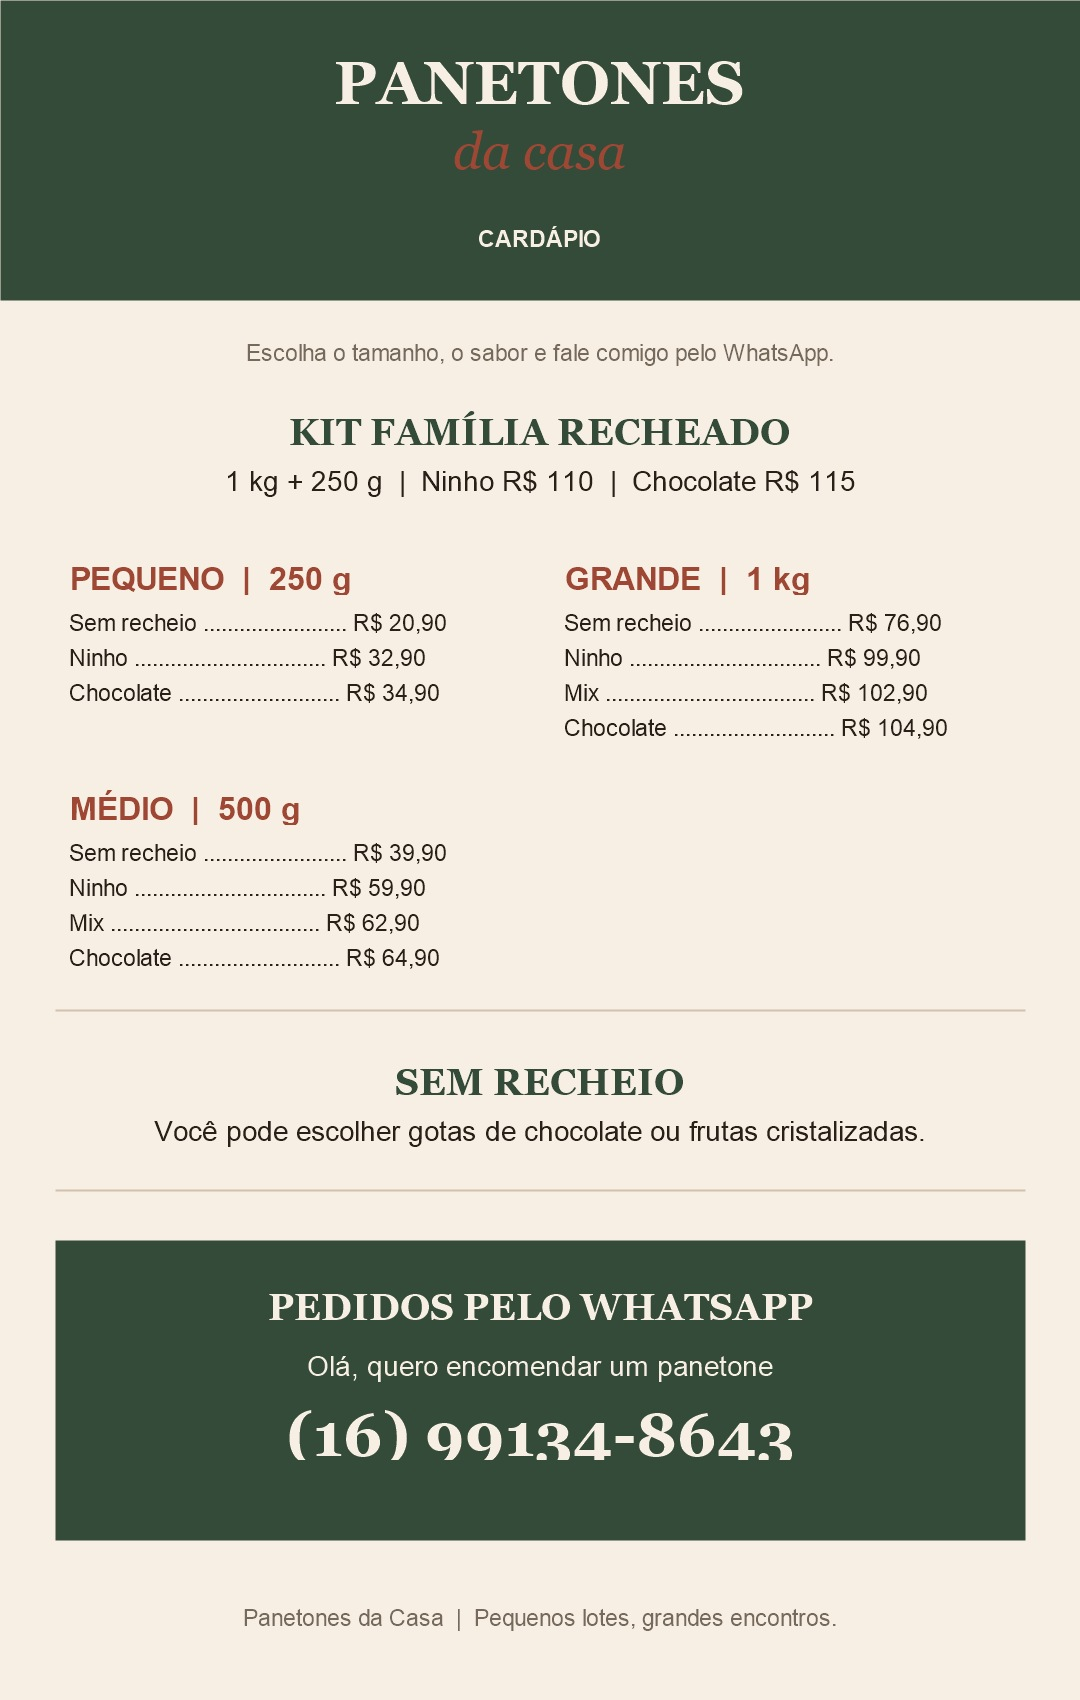
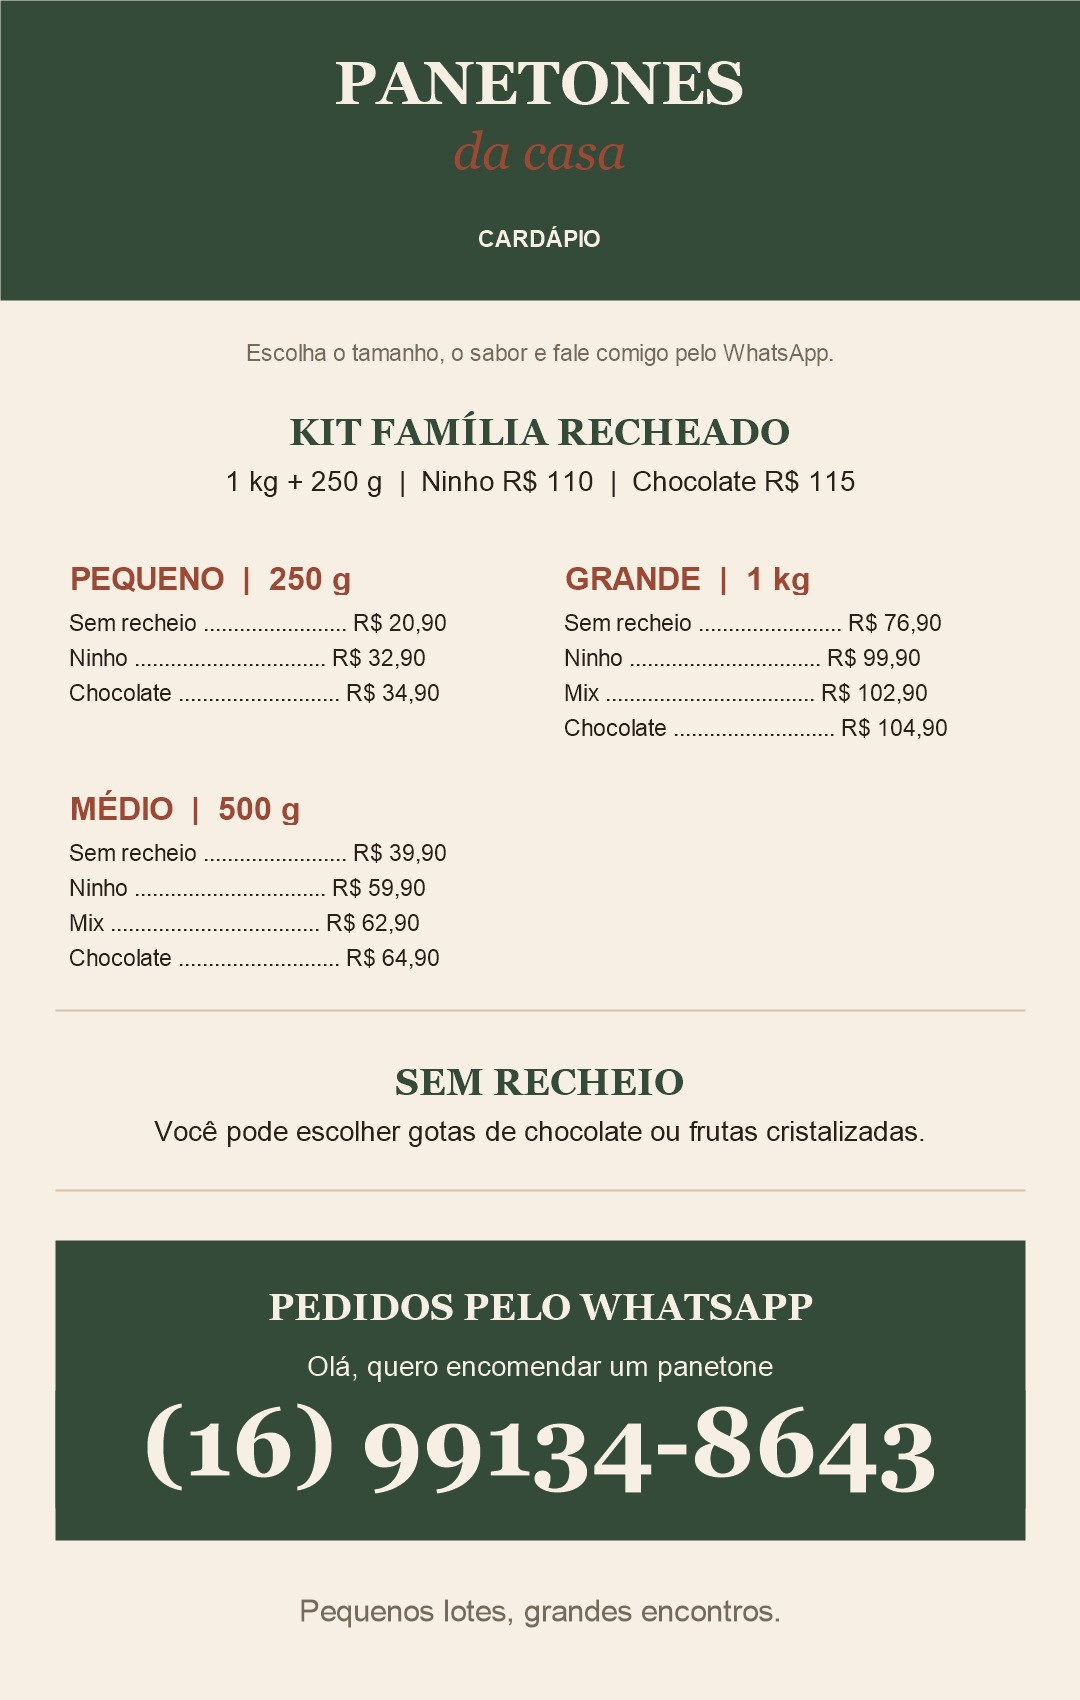
fix: corrige zoom e ajustes do cardapio

Changed region(s): [[0.1833, 0.8106, 0.8861, 0.9041], [0.2444, 0.9353, 0.7639, 0.9665], [0.1222, 0.8106, 0.1528, 0.8729]]

diff --git a/index.html b/index.html
@@ -78,17 +78,22 @@
         <div class="lightbox" id="lightbox" role="dialog" aria-modal="true" aria-label="Foto ampliada" hidden onclick="closePhoto()">
           <div class="lightbox-content" onclick="event.stopPropagation()">
             <button class="lightbox-close" type="button" onclick="closePhoto()" aria-label="Fechar foto ampliada">×</button>
-            <button class="lightbox-image-button" id="lightbox-image-button" type="button" onclick="toggleZoom()" aria-label="Aumentar foto"><img class="lightbox-image" id="lightbox-image" src="./public/images/panetone-cortado.png" alt="" /></button>
+            <button class="lightbox-image-button" id="lightbox-image-button" type="button" onclick="handleLightboxClick()" onpointerdown="startPhotoDrag(event)" onpointermove="movePhotoDrag(event)" onpointerup="endPhotoDrag(event)" onpointercancel="endPhotoDrag(event)" aria-label="Aumentar foto"><img class="lightbox-image" id="lightbox-image" src="./public/images/panetone-cortado.png" alt="" draggable="false" /></button>
             <p class="lightbox-caption" id="lightbox-caption">Macio por dentro · clique na foto para dar zoom</p>
           </div>
         </div>
 
         <section class="order-section section-shell"><div class="order-card"><div><p class="eyebrow">A próxima fatia pode ser sua</p><h2>Reserve seu pedido.</h2><p>Chame no WhatsApp para escolher o tamanho, o recheio e combinar a entrega.</p></div><a class="button button-light" data-whatsapp href="https://wa.me/5516991348643" target="_blank" rel="noreferrer">Quero pedir</a></div></section>
-        <footer class="site-footer section-shell"><span>Panetones da casa</span><span>Pequenos lotes, grandes encontros.</span><a href="#top">Voltar ao topo ↑</a></footer>
+        <footer class="site-footer section-shell"><span>Pequenos lotes, grandes encontros.</span><a href="#top">Voltar ao topo ↑</a></footer>
       </main>
     </div>
     <script>
       let activePhotoIndex = 0
+      let staticZoomed = false
+      let staticPanX = 0
+      let staticPanY = 0
+      let staticDrag = null
+      let staticSuppressClick = false
       const staticAssetRoot = window.location.protocol === 'file:' ? './public/' : './'
       const staticAssetPath = (path) => `${staticAssetRoot}${path}`
       document.querySelectorAll('img[src^="./public/"]').forEach((image) => {
@@ -130,8 +135,12 @@
         const imageButton = document.getElementById('lightbox-image-button')
         image.src = photo[0]
         image.alt = photo[1]
-        image.classList.remove('is-zoomed')
+        staticZoomed = false
+        staticPanX = 0
+        staticPanY = 0
+        image.style.transform = 'translate(0px, 0px) scale(1)'
         imageButton.classList.remove('is-zoomed')
+        imageButton.classList.remove('is-dragging')
         imageButton.setAttribute('aria-label', 'Aumentar foto')
         document.getElementById('lightbox-caption').textContent = `${photo[2]} · clique na foto para dar zoom`
         lightbox.hidden = false
@@ -141,14 +150,52 @@
         document.getElementById('lightbox').hidden = true
         document.body.style.overflow = ''
       }
-      function toggleZoom() {
+      function updateStaticLightbox() {
         const image = document.getElementById('lightbox-image')
         const imageButton = document.getElementById('lightbox-image-button')
-        const zoomed = image.classList.toggle('is-zoomed')
-        imageButton.classList.toggle('is-zoomed', zoomed)
-        imageButton.setAttribute('aria-label', zoomed ? 'Reduzir foto' : 'Aumentar foto')
+        image.style.transform = `translate(${staticPanX}px, ${staticPanY}px) scale(${staticZoomed ? 1.55 : 1})`
+        imageButton.classList.toggle('is-zoomed', staticZoomed)
+        imageButton.setAttribute('aria-label', staticZoomed ? 'Arrastar ou reduzir foto' : 'Aumentar foto')
         const photo = photos[activePhotoIndex]
-        document.getElementById('lightbox-caption').textContent = `${photo[2]} · clique na foto para ${zoomed ? 'reduzir' : 'dar zoom'}`
+        document.getElementById('lightbox-caption').textContent = `${photo[2]} · ${staticZoomed ? 'arraste para explorar ou clique para reduzir' : 'clique na foto para dar zoom'}`
+      }
+      function toggleZoom() {
+        staticZoomed = !staticZoomed
+        if (!staticZoomed) {
+          staticPanX = 0
+          staticPanY = 0
+        }
+        updateStaticLightbox()
+      }
+      function handleLightboxClick() {
+        if (staticSuppressClick) {
+          staticSuppressClick = false
+          return
+        }
+        toggleZoom()
+      }
+      function startPhotoDrag(event) {
+        if (!staticZoomed) return
+        event.preventDefault()
+        event.currentTarget.setPointerCapture(event.pointerId)
+        staticDrag = { pointerId: event.pointerId, startX: event.clientX, startY: event.clientY, panX: staticPanX, panY: staticPanY, moved: false }
+        event.currentTarget.classList.add('is-dragging')
+      }
+      function movePhotoDrag(event) {
+        if (!staticDrag || staticDrag.pointerId !== event.pointerId) return
+        const deltaX = event.clientX - staticDrag.startX
+        const deltaY = event.clientY - staticDrag.startY
+        if (Math.abs(deltaX) > 3 || Math.abs(deltaY) > 3) staticDrag.moved = true
+        staticPanX = staticDrag.panX + deltaX
+        staticPanY = staticDrag.panY + deltaY
+        updateStaticLightbox()
+      }
+      function endPhotoDrag(event) {
+        if (!staticDrag || staticDrag.pointerId !== event.pointerId) return
+        if (staticDrag.moved) staticSuppressClick = true
+        if (event.currentTarget.hasPointerCapture(event.pointerId)) event.currentTarget.releasePointerCapture(event.pointerId)
+        staticDrag = null
+        event.currentTarget.classList.remove('is-dragging')
       }
       document.addEventListener('keydown', (event) => {
         if (event.key === 'Escape' && document.getElementById('lightbox')) closePhoto()

diff --git a/src/main.jsx b/src/main.jsx
@@ -1,4 +1,4 @@
-import { StrictMode, useEffect, useState } from 'react'
+import { StrictMode, useEffect, useRef, useState } from 'react'
 import { createRoot } from 'react-dom/client'
 import './styles.css'
 
@@ -125,16 +125,69 @@ function App() {
   const [selectedPhoto, setSelectedPhoto] = useState(0)
   const [lightboxPhoto, setLightboxPhoto] = useState(null)
   const [zoomed, setZoomed] = useState(false)
+  const [pan, setPan] = useState({ x: 0, y: 0 })
+  const [dragging, setDragging] = useState(false)
+  const dragRef = useRef(null)
+  const suppressClickRef = useRef(false)
 
   function openPhoto(index) {
     setSelectedPhoto(index)
     setLightboxPhoto(photos[index])
     setZoomed(false)
+    setPan({ x: 0, y: 0 })
   }
 
   function closePhoto() {
     setLightboxPhoto(null)
     setZoomed(false)
+    setPan({ x: 0, y: 0 })
+  }
+
+  function toggleZoom() {
+    setZoomed((current) => {
+      if (current) setPan({ x: 0, y: 0 })
+      return !current
+    })
+  }
+
+  function handleImagePointerDown(event) {
+    if (!zoomed) return
+    event.preventDefault()
+    event.currentTarget.setPointerCapture(event.pointerId)
+    dragRef.current = {
+      pointerId: event.pointerId,
+      startX: event.clientX,
+      startY: event.clientY,
+      startPan: pan,
+      moved: false,
+    }
+    setDragging(true)
+  }
+
+  function handleImagePointerMove(event) {
+    const drag = dragRef.current
+    if (!drag || drag.pointerId !== event.pointerId) return
+    const deltaX = event.clientX - drag.startX
+    const deltaY = event.clientY - drag.startY
+    if (Math.abs(deltaX) > 3 || Math.abs(deltaY) > 3) drag.moved = true
+    setPan({ x: drag.startPan.x + deltaX, y: drag.startPan.y + deltaY })
+  }
+
+  function handleImagePointerUp(event) {
+    const drag = dragRef.current
+    if (!drag || drag.pointerId !== event.pointerId) return
+    if (drag.moved) suppressClickRef.current = true
+    if (event.currentTarget.hasPointerCapture(event.pointerId)) event.currentTarget.releasePointerCapture(event.pointerId)
+    dragRef.current = null
+    setDragging(false)
+  }
+
+  function handleImageClick() {
+    if (suppressClickRef.current) {
+      suppressClickRef.current = false
+      return
+    }
+    toggleZoom()
   }
 
   useEffect(() => {
@@ -300,10 +353,10 @@ function App() {
         <div className="lightbox" role="dialog" aria-modal="true" aria-label={`Foto ampliada: ${lightboxPhoto.label}`} onClick={closePhoto}>
           <div className="lightbox-content" onClick={(event) => event.stopPropagation()}>
             <button className="lightbox-close" type="button" onClick={closePhoto} aria-label="Fechar foto ampliada">×</button>
-            <button className={`lightbox-image-button ${zoomed ? 'is-zoomed' : ''}`} type="button" onClick={() => setZoomed((current) => !current)} aria-label={zoomed ? 'Reduzir foto' : 'Aumentar foto'}>
-              <img className={`lightbox-image ${zoomed ? 'is-zoomed' : ''}`} src={lightboxPhoto.src} alt={lightboxPhoto.alt} />
+            <button className={`lightbox-image-button ${zoomed ? 'is-zoomed' : ''} ${dragging ? 'is-dragging' : ''}`} type="button" onClick={handleImageClick} onPointerDown={handleImagePointerDown} onPointerMove={handleImagePointerMove} onPointerUp={handleImagePointerUp} onPointerCancel={handleImagePointerUp} aria-label={zoomed ? 'Arrastar ou reduzir foto' : 'Aumentar foto'}>
+              <img className="lightbox-image" src={lightboxPhoto.src} alt={lightboxPhoto.alt} draggable="false" style={{ transform: `translate(${pan.x}px, ${pan.y}px) scale(${zoomed ? 1.55 : 1})` }} />
             </button>
-            <p className="lightbox-caption">{lightboxPhoto.label} · clique na foto para {zoomed ? 'reduzir' : 'dar zoom'}</p>
+            <p className="lightbox-caption">{lightboxPhoto.label} · {zoomed ? 'arraste para explorar ou clique para reduzir' : 'clique na foto para dar zoom'}</p>
           </div>
         </div>
       )}
@@ -322,7 +375,6 @@ function App() {
       </section>
 
       <footer className="site-footer section-shell">
-        <span>Panetones da casa</span>
         <span>Pequenos lotes, grandes encontros.</span>
         <a href="#top">Voltar ao topo ↑</a>
       </footer>

diff --git a/src/styles.css b/src/styles.css
@@ -159,10 +159,10 @@ img { display: block; max-width: 100%; }
 .lightbox { align-items: center; background: rgba(25, 19, 14, .84); display: flex; inset: 0; justify-content: center; padding: 28px; position: fixed; z-index: 20; }
 .lightbox[hidden] { display: none; }
 .lightbox-content { max-height: 100%; max-width: min(92vw, 1000px); position: relative; }
-.lightbox-image-button { background: transparent; border: 0; cursor: zoom-in; display: block; max-height: calc(100vh - 100px); max-width: 100%; overflow: auto; padding: 0; }
-.lightbox-image { display: block; max-height: calc(100vh - 100px); max-width: 100%; object-fit: contain; transition: transform .25s ease; }
-.lightbox-image.is-zoomed { cursor: zoom-out; max-height: none; max-width: none; transform: scale(1.55); transform-origin: center center; }
-.lightbox-image-button.is-zoomed { max-height: calc(100vh - 100px); max-width: min(92vw, 1000px); }
+.lightbox-image-button { align-items: center; background: transparent; border: 0; cursor: zoom-in; display: flex; height: min(calc(100vh - 100px), 760px); justify-content: center; max-width: min(92vw, 1000px); overflow: hidden; padding: 0; touch-action: none; width: min(92vw, 1000px); }
+.lightbox-image { display: block; max-height: 100%; max-width: 100%; object-fit: contain; pointer-events: none; user-select: none; }
+.lightbox-image-button.is-zoomed { cursor: grab; }
+.lightbox-image-button.is-dragging { cursor: grabbing; }
 .lightbox-close { align-items: center; background: var(--cream); border: 0; border-radius: 50%; color: var(--ink); cursor: pointer; display: flex; font-size: 28px; height: 38px; justify-content: center; line-height: 1; position: absolute; right: -14px; top: -14px; width: 38px; z-index: 1; }
 .lightbox-caption { color: #fff8ee; font-size: 12px; margin: 14px 0 0; text-align: center; }
 
@@ -217,7 +217,7 @@ img { display: block; max-width: 100%; }
   .gallery-photo, .gallery-photo:nth-child(2), .gallery-photo:nth-child(4) { height: 180px; margin-top: 0; }
   .lightbox { padding: 18px; }
   .lightbox-close { right: -5px; top: -5px; }
-  .lightbox-image.is-zoomed { transform: scale(1.25); }
+  .lightbox-image-button { height: min(calc(100vh - 90px), 620px); width: 92vw; }
   .order-card { align-items: flex-start; flex-direction: column; padding: 39px 25px; }
   .order-card .button { margin-left: 0; margin-top: 28px; }
   .site-footer { align-items: flex-start; flex-direction: column; gap: 10px; padding-bottom: 25px; }
